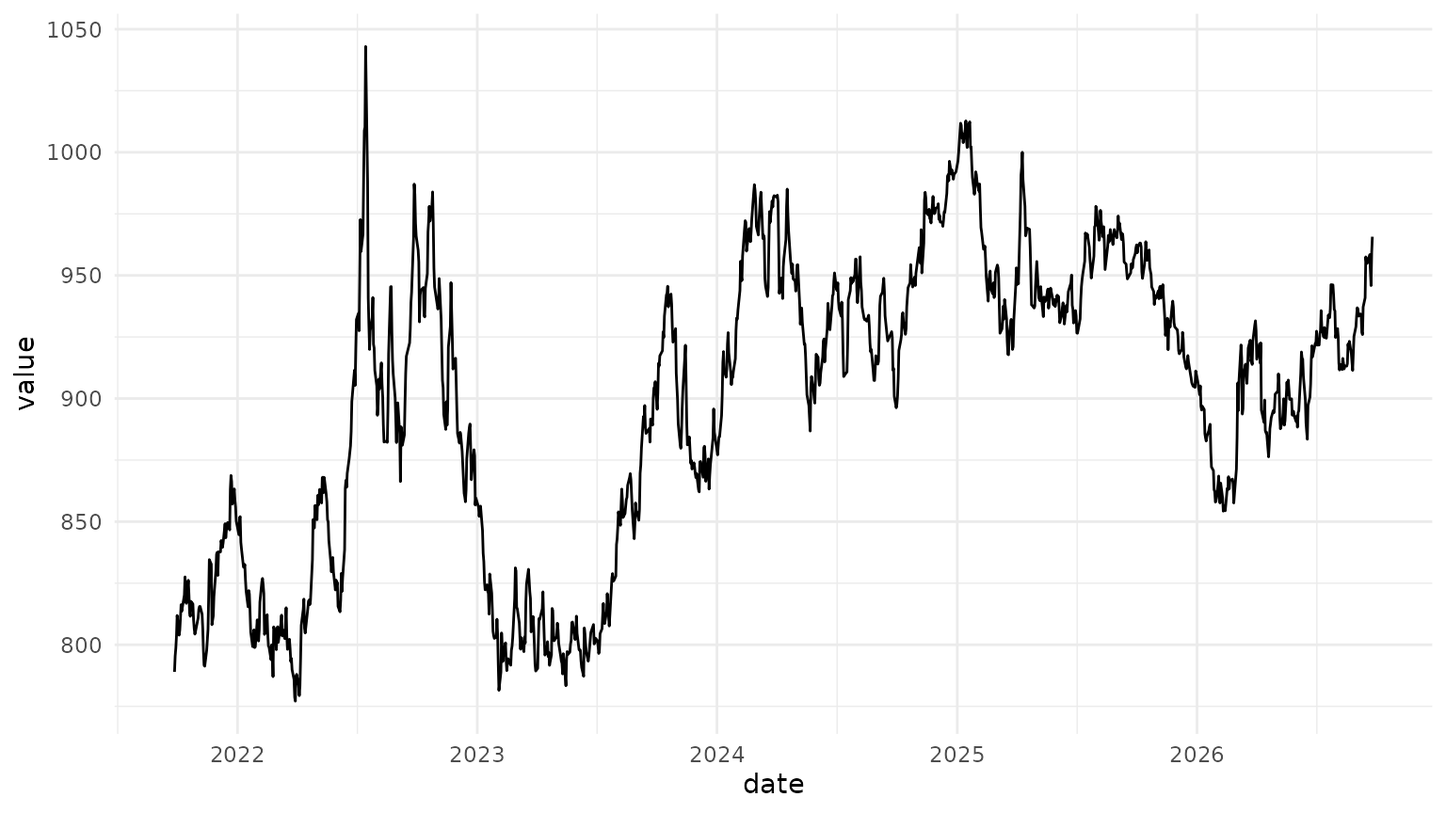
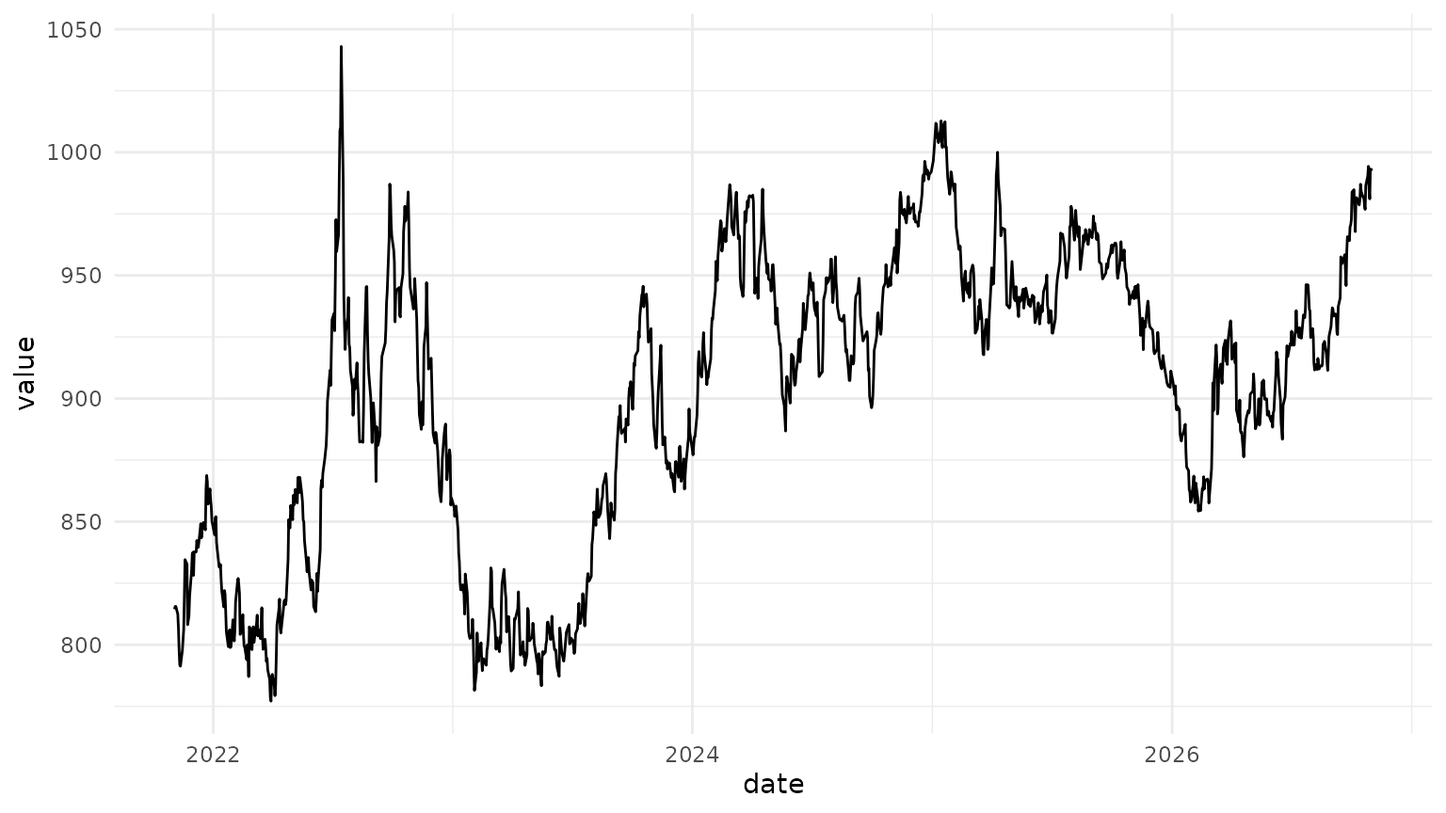
Built site for bcchr@0.1.0.9000: 2766e82

diff --git a/articles/ggplot.html b/articles/ggplot.html
@@ -1,8 +1,7 @@
 <!DOCTYPE html>
 <!-- Generated by pkgdown: do not edit by hand --><html lang="es">
 <head>
-<meta http-equiv="Content-Type" content="text/html; charset=UTF-8">
-<meta charset="utf-8">
+<meta charset="UTF-8">
 <meta http-equiv="X-UA-Compatible" content="IE=edge">
 <meta name="viewport" content="width=device-width, initial-scale=1, shrink-to-fit=no">
 <title>Visualización con ggplot2 • bcchr</title>
@@ -73,8 +72,9 @@ usar la serie directamente con <code>ggplot2</code>, sin clases
 especiales ni métodos de gráfico obligatorios.</p>
 <p>Los ejemplos de esta página consultan la API del Banco Central y
 requieren que <code>BCCH_TOKEN</code> esté configurado. Si no existe el
-token, el código se muestra pero no se ejecuta al construir la
-vignette.</p>
+token, el código se muestra pero no se ejecuta al construir la vignette.
+Si la API no está accesible por un problema de conexión, se informa el
+motivo y se omiten los gráficos dependientes.</p>
 <div class="section level2">
 <h2 id="descargar-una-serie">Descargar una serie<a class="anchor" aria-label="anchor" href="#descargar-una-serie"></a>
 </h2>
@@ -85,27 +85,38 @@ la serie es exacto; cuando no lo conozca puede encontrar candidatos con
 <code class="sourceCode R"><span><span class="kw"><a href="https://rdrr.io/r/base/library.html" class="external-link">library</a></span><span class="op">(</span><span class="va"><a href="https://jkunst.com/bcchr/">bcchr</a></span><span class="op">)</span></span>
 <span></span>
 <span><span class="co"># Requiere BCCH_TOKEN configurado.</span></span>
-<span><span class="va">dolar</span> <span class="op">&lt;-</span> <span class="fu"><a href="../reference/get_series.html">get_series</a></span><span class="op">(</span></span>
-<span>  <span class="st">"F073.TCO.PRE.Z.D"</span>,</span>
-<span>  from <span class="op">=</span> <span class="fu"><a href="https://rdrr.io/r/base/Sys.time.html" class="external-link">Sys.Date</a></span><span class="op">(</span><span class="op">)</span> <span class="op">-</span> <span class="fl">365</span> <span class="op">*</span> <span class="fl">5</span>,</span>
-<span>  to <span class="op">=</span> <span class="fu"><a href="https://rdrr.io/r/base/Sys.time.html" class="external-link">Sys.Date</a></span><span class="op">(</span><span class="op">)</span></span>
+<span><span class="va">dolar</span> <span class="op">&lt;-</span> <span class="kw"><a href="https://rdrr.io/r/base/conditions.html" class="external-link">tryCatch</a></span><span class="op">(</span></span>
+<span>  <span class="fu"><a href="../reference/get_series.html">get_series</a></span><span class="op">(</span></span>
+<span>    <span class="st">"F073.TCO.PRE.Z.D"</span>,</span>
+<span>    from <span class="op">=</span> <span class="fu"><a href="https://rdrr.io/r/base/Sys.time.html" class="external-link">Sys.Date</a></span><span class="op">(</span><span class="op">)</span> <span class="op">-</span> <span class="fl">365</span> <span class="op">*</span> <span class="fl">5</span>,</span>
+<span>    to <span class="op">=</span> <span class="fu"><a href="https://rdrr.io/r/base/Sys.time.html" class="external-link">Sys.Date</a></span><span class="op">(</span><span class="op">)</span></span>
+<span>  <span class="op">)</span>,</span>
+<span>  curl_error <span class="op">=</span> <span class="kw">function</span><span class="op">(</span><span class="va">error</span><span class="op">)</span> <span class="op">{</span></span>
+<span>    <span class="fu"><a href="https://rdrr.io/r/base/message.html" class="external-link">message</a></span><span class="op">(</span><span class="st">"No se pudo consultar la API del Banco Central: "</span>, <span class="fu"><a href="https://rdrr.io/r/base/conditions.html" class="external-link">conditionMessage</a></span><span class="op">(</span><span class="va">error</span><span class="op">)</span><span class="op">)</span></span>
+<span>    <span class="cn">NULL</span></span>
+<span>  <span class="op">}</span></span>
 <span><span class="op">)</span></span>
 <span></span>
-<span><span class="va">dolar</span> <span class="op">&lt;-</span> <span class="va">dolar</span><span class="op">[</span></span>
-<span>  <span class="va">dolar</span><span class="op">$</span><span class="va">status_code</span> <span class="op">==</span> <span class="st">"OK"</span> <span class="op">&amp;</span> <span class="op">!</span><span class="fu"><a href="https://rdrr.io/r/base/NA.html" class="external-link">is.na</a></span><span class="op">(</span><span class="va">dolar</span><span class="op">$</span><span class="va">value</span><span class="op">)</span>,</span>
-<span>  <span class="fu"><a href="https://rdrr.io/r/base/c.html" class="external-link">c</a></span><span class="op">(</span><span class="st">"date"</span>, <span class="st">"value"</span><span class="op">)</span></span>
-<span><span class="op">]</span></span>
+<span><span class="co"># Los siguientes ejemplos requieren una descarga disponible.</span></span>
+<span><span class="fu">knitr</span><span class="fu">::</span><span class="va"><a href="https://rdrr.io/pkg/knitr/man/opts_chunk.html" class="external-link">opts_chunk</a></span><span class="op">$</span><span class="fu">set</span><span class="op">(</span>eval <span class="op">=</span> <span class="op">!</span><span class="fu"><a href="https://rdrr.io/r/base/NULL.html" class="external-link">is.null</a></span><span class="op">(</span><span class="va">dolar</span><span class="op">)</span><span class="op">)</span></span>
 <span></span>
-<span><span class="fu"><a href="https://rdrr.io/r/utils/head.html" class="external-link">tail</a></span><span class="op">(</span><span class="va">dolar</span><span class="op">)</span></span>
+<span><span class="kw">if</span> <span class="op">(</span><span class="op">!</span><span class="fu"><a href="https://rdrr.io/r/base/NULL.html" class="external-link">is.null</a></span><span class="op">(</span><span class="va">dolar</span><span class="op">)</span><span class="op">)</span> <span class="op">{</span></span>
+<span>  <span class="va">dolar</span> <span class="op">&lt;-</span> <span class="va">dolar</span><span class="op">[</span></span>
+<span>    <span class="va">dolar</span><span class="op">$</span><span class="va">status_code</span> <span class="op">==</span> <span class="st">"OK"</span> <span class="op">&amp;</span> <span class="op">!</span><span class="fu"><a href="https://rdrr.io/r/base/NA.html" class="external-link">is.na</a></span><span class="op">(</span><span class="va">dolar</span><span class="op">$</span><span class="va">value</span><span class="op">)</span>,</span>
+<span>    <span class="fu"><a href="https://rdrr.io/r/base/c.html" class="external-link">c</a></span><span class="op">(</span><span class="st">"date"</span>, <span class="st">"value"</span><span class="op">)</span></span>
+<span>  <span class="op">]</span></span>
+<span></span>
+<span>  <span class="fu"><a href="https://rdrr.io/r/utils/head.html" class="external-link">tail</a></span><span class="op">(</span><span class="va">dolar</span><span class="op">)</span></span>
+<span><span class="op">}</span></span>
 <span><span class="co">#&gt; <span style="color: #949494;"># A tibble: 6 × 2</span></span></span>
 <span><span class="co">#&gt;   date       value</span></span>
 <span><span class="co">#&gt;   <span style="color: #949494; font-style: italic;">&lt;date&gt;</span>     <span style="color: #949494; font-style: italic;">&lt;dbl&gt;</span></span></span>
-<span><span class="co">#&gt; <span style="color: #BCBCBC;">1</span> 2026-09-17  955.</span></span>
-<span><span class="co">#&gt; <span style="color: #BCBCBC;">2</span> 2026-09-21  958.</span></span>
-<span><span class="co">#&gt; <span style="color: #BCBCBC;">3</span> 2026-09-22  952 </span></span>
-<span><span class="co">#&gt; <span style="color: #BCBCBC;">4</span> 2026-09-23  946.</span></span>
-<span><span class="co">#&gt; <span style="color: #BCBCBC;">5</span> 2026-09-24  959.</span></span>
-<span><span class="co">#&gt; <span style="color: #BCBCBC;">6</span> 2026-09-25  966.</span></span></code></pre></div>
+<span><span class="co">#&gt; <span style="color: #BCBCBC;">1</span> 2026-10-26  990.</span></span>
+<span><span class="co">#&gt; <span style="color: #BCBCBC;">2</span> 2026-10-27  994.</span></span>
+<span><span class="co">#&gt; <span style="color: #BCBCBC;">3</span> 2026-10-28  985.</span></span>
+<span><span class="co">#&gt; <span style="color: #BCBCBC;">4</span> 2026-10-29  981.</span></span>
+<span><span class="co">#&gt; <span style="color: #BCBCBC;">5</span> 2026-10-30  993.</span></span>
+<span><span class="co">#&gt; <span style="color: #BCBCBC;">6</span> 2026-11-02  993.</span></span></code></pre></div>
 </div>
 <div class="section level2">
 <h2 id="la-opción-rápida">La opción rápida<a class="anchor" aria-label="anchor" href="#la-opci%C3%B3n-r%C3%A1pida"></a>

diff --git a/reference/bcch_SearchSeries.html b/reference/bcch_SearchSeries.html
@@ -1,5 +1,5 @@
 <!DOCTYPE html>
-<!-- Generated by pkgdown: do not edit by hand --><html lang="es"><head><meta http-equiv="Content-Type" content="text/html; charset=UTF-8"><meta charset="utf-8"><meta http-equiv="X-UA-Compatible" content="IE=edge"><meta name="viewport" content="width=device-width, initial-scale=1, shrink-to-fit=no"><title>Obtener las series disponibles por frecuencia — bcch_SearchSeries • bcchr</title><script src="../deps/jquery-3.6.0/jquery-3.6.0.min.js"></script><meta name="viewport" content="width=device-width, initial-scale=1, shrink-to-fit=no"><link href="../deps/bootstrap-5.3.8/bootstrap.min.css" rel="stylesheet"><script src="../deps/bootstrap-5.3.8/bootstrap.bundle.min.js"></script><link href="../deps/IBM_Plex_Sans-0.4.10/font.css" rel="stylesheet"><link href="../deps/Fira_Mono-0.4.10/font.css" rel="stylesheet"><link href="../deps/font-awesome-6.5.2/css/all.min.css" rel="stylesheet"><link href="../deps/font-awesome-6.5.2/css/v4-shims.min.css" rel="stylesheet"><script src="../deps/headroom-0.11.0/headroom.min.js"></script><script src="../deps/headroom-0.11.0/jQuery.headroom.min.js"></script><script src="../deps/bootstrap-toc-1.0.1/bootstrap-toc.min.js"></script><script src="../deps/clipboard.js-2.0.11/clipboard.min.js"></script><script src="../deps/search-1.0.0/autocomplete.jquery.min.js"></script><script src="../deps/search-1.0.0/fuse.min.js"></script><script src="../deps/search-1.0.0/mark.min.js"></script><!-- pkgdown --><script src="../pkgdown.js"></script><meta property="og:title" content="Obtener las series disponibles por frecuencia — bcch_SearchSeries"><meta name="description" content="Acceso directo a la operación SearchSeries del API del Banco Central.
+<!-- Generated by pkgdown: do not edit by hand --><html lang="es"><head><meta charset="UTF-8"><meta http-equiv="X-UA-Compatible" content="IE=edge"><meta name="viewport" content="width=device-width, initial-scale=1, shrink-to-fit=no"><title>Obtener las series disponibles por frecuencia — bcch_SearchSeries • bcchr</title><script src="../deps/jquery-3.6.0/jquery-3.6.0.min.js"></script><meta name="viewport" content="width=device-width, initial-scale=1, shrink-to-fit=no"><link href="../deps/bootstrap-5.3.8/bootstrap.min.css" rel="stylesheet"><script src="../deps/bootstrap-5.3.8/bootstrap.bundle.min.js"></script><link href="../deps/IBM_Plex_Sans-0.4.10/font.css" rel="stylesheet"><link href="../deps/Fira_Mono-0.4.10/font.css" rel="stylesheet"><link href="../deps/font-awesome-6.5.2/css/all.min.css" rel="stylesheet"><link href="../deps/font-awesome-6.5.2/css/v4-shims.min.css" rel="stylesheet"><script src="../deps/headroom-0.11.0/headroom.min.js"></script><script src="../deps/headroom-0.11.0/jQuery.headroom.min.js"></script><script src="../deps/bootstrap-toc-1.0.1/bootstrap-toc.min.js"></script><script src="../deps/clipboard.js-2.0.11/clipboard.min.js"></script><script src="../deps/search-1.0.0/autocomplete.jquery.min.js"></script><script src="../deps/search-1.0.0/fuse.min.js"></script><script src="../deps/search-1.0.0/mark.min.js"></script><!-- pkgdown --><script src="../pkgdown.js"></script><meta property="og:title" content="Obtener las series disponibles por frecuencia — bcch_SearchSeries"><meta name="description" content="Acceso directo a la operación SearchSeries del API del Banco Central.
 Para la interfaz moderna use metadata() o resolve_series()."><meta property="og:description" content="Acceso directo a la operación SearchSeries del API del Banco Central.
 Para la interfaz moderna use metadata() o resolve_series()."><!-- Google tag (gtag.js) --><script async src="https://www.googletagmanager.com/gtag/js?id=G-ECZ9XLT78C"></script><script>
   window.dataLayer = window.dataLayer || [];

diff --git a/reference/bcch_GetSeries.html b/reference/bcch_GetSeries.html
@@ -1,5 +1,5 @@
 <!DOCTYPE html>
-<!-- Generated by pkgdown: do not edit by hand --><html lang="es"><head><meta http-equiv="Content-Type" content="text/html; charset=UTF-8"><meta charset="utf-8"><meta http-equiv="X-UA-Compatible" content="IE=edge"><meta name="viewport" content="width=device-width, initial-scale=1, shrink-to-fit=no"><title>Obtener los datos de una serie — bcch_GetSeries • bcchr</title><script src="../deps/jquery-3.6.0/jquery-3.6.0.min.js"></script><meta name="viewport" content="width=device-width, initial-scale=1, shrink-to-fit=no"><link href="../deps/bootstrap-5.3.8/bootstrap.min.css" rel="stylesheet"><script src="../deps/bootstrap-5.3.8/bootstrap.bundle.min.js"></script><link href="../deps/IBM_Plex_Sans-0.4.10/font.css" rel="stylesheet"><link href="../deps/Fira_Mono-0.4.10/font.css" rel="stylesheet"><link href="../deps/font-awesome-6.5.2/css/all.min.css" rel="stylesheet"><link href="../deps/font-awesome-6.5.2/css/v4-shims.min.css" rel="stylesheet"><script src="../deps/headroom-0.11.0/headroom.min.js"></script><script src="../deps/headroom-0.11.0/jQuery.headroom.min.js"></script><script src="../deps/bootstrap-toc-1.0.1/bootstrap-toc.min.js"></script><script src="../deps/clipboard.js-2.0.11/clipboard.min.js"></script><script src="../deps/search-1.0.0/autocomplete.jquery.min.js"></script><script src="../deps/search-1.0.0/fuse.min.js"></script><script src="../deps/search-1.0.0/mark.min.js"></script><!-- pkgdown --><script src="../pkgdown.js"></script><meta property="og:title" content="Obtener los datos de una serie — bcch_GetSeries"><meta name="description" content="Acceso directo a la operación GetSeries del API del Banco Central.
+<!-- Generated by pkgdown: do not edit by hand --><html lang="es"><head><meta charset="UTF-8"><meta http-equiv="X-UA-Compatible" content="IE=edge"><meta name="viewport" content="width=device-width, initial-scale=1, shrink-to-fit=no"><title>Obtener los datos de una serie — bcch_GetSeries • bcchr</title><script src="../deps/jquery-3.6.0/jquery-3.6.0.min.js"></script><meta name="viewport" content="width=device-width, initial-scale=1, shrink-to-fit=no"><link href="../deps/bootstrap-5.3.8/bootstrap.min.css" rel="stylesheet"><script src="../deps/bootstrap-5.3.8/bootstrap.bundle.min.js"></script><link href="../deps/IBM_Plex_Sans-0.4.10/font.css" rel="stylesheet"><link href="../deps/Fira_Mono-0.4.10/font.css" rel="stylesheet"><link href="../deps/font-awesome-6.5.2/css/all.min.css" rel="stylesheet"><link href="../deps/font-awesome-6.5.2/css/v4-shims.min.css" rel="stylesheet"><script src="../deps/headroom-0.11.0/headroom.min.js"></script><script src="../deps/headroom-0.11.0/jQuery.headroom.min.js"></script><script src="../deps/bootstrap-toc-1.0.1/bootstrap-toc.min.js"></script><script src="../deps/clipboard.js-2.0.11/clipboard.min.js"></script><script src="../deps/search-1.0.0/autocomplete.jquery.min.js"></script><script src="../deps/search-1.0.0/fuse.min.js"></script><script src="../deps/search-1.0.0/mark.min.js"></script><!-- pkgdown --><script src="../pkgdown.js"></script><meta property="og:title" content="Obtener los datos de una serie — bcch_GetSeries"><meta name="description" content="Acceso directo a la operación GetSeries del API del Banco Central.
 Para la interfaz moderna use get_series()."><meta property="og:description" content="Acceso directo a la operación GetSeries del API del Banco Central.
 Para la interfaz moderna use get_series()."><!-- Google tag (gtag.js) --><script async src="https://www.googletagmanager.com/gtag/js?id=G-ECZ9XLT78C"></script><script>
   window.dataLayer = window.dataLayer || [];

diff --git a/reference/get_series.html b/reference/get_series.html
@@ -1,5 +1,5 @@
 <!DOCTYPE html>
-<!-- Generated by pkgdown: do not edit by hand --><html lang="es"><head><meta http-equiv="Content-Type" content="text/html; charset=UTF-8"><meta charset="utf-8"><meta http-equiv="X-UA-Compatible" content="IE=edge"><meta name="viewport" content="width=device-width, initial-scale=1, shrink-to-fit=no"><title>Obtener observaciones de series del Banco Central — get_series • bcchr</title><script src="../deps/jquery-3.6.0/jquery-3.6.0.min.js"></script><meta name="viewport" content="width=device-width, initial-scale=1, shrink-to-fit=no"><link href="../deps/bootstrap-5.3.8/bootstrap.min.css" rel="stylesheet"><script src="../deps/bootstrap-5.3.8/bootstrap.bundle.min.js"></script><link href="../deps/IBM_Plex_Sans-0.4.10/font.css" rel="stylesheet"><link href="../deps/Fira_Mono-0.4.10/font.css" rel="stylesheet"><link href="../deps/font-awesome-6.5.2/css/all.min.css" rel="stylesheet"><link href="../deps/font-awesome-6.5.2/css/v4-shims.min.css" rel="stylesheet"><script src="../deps/headroom-0.11.0/headroom.min.js"></script><script src="../deps/headroom-0.11.0/jQuery.headroom.min.js"></script><script src="../deps/bootstrap-toc-1.0.1/bootstrap-toc.min.js"></script><script src="../deps/clipboard.js-2.0.11/clipboard.min.js"></script><script src="../deps/search-1.0.0/autocomplete.jquery.min.js"></script><script src="../deps/search-1.0.0/fuse.min.js"></script><script src="../deps/search-1.0.0/mark.min.js"></script><!-- pkgdown --><script src="../pkgdown.js"></script><meta property="og:title" content="Obtener observaciones de series del Banco Central — get_series"><meta name="description" content="Obtiene las observaciones de una o varias series identificadas por sus
+<!-- Generated by pkgdown: do not edit by hand --><html lang="es"><head><meta charset="UTF-8"><meta http-equiv="X-UA-Compatible" content="IE=edge"><meta name="viewport" content="width=device-width, initial-scale=1, shrink-to-fit=no"><title>Obtener observaciones de series del Banco Central — get_series • bcchr</title><script src="../deps/jquery-3.6.0/jquery-3.6.0.min.js"></script><meta name="viewport" content="width=device-width, initial-scale=1, shrink-to-fit=no"><link href="../deps/bootstrap-5.3.8/bootstrap.min.css" rel="stylesheet"><script src="../deps/bootstrap-5.3.8/bootstrap.bundle.min.js"></script><link href="../deps/IBM_Plex_Sans-0.4.10/font.css" rel="stylesheet"><link href="../deps/Fira_Mono-0.4.10/font.css" rel="stylesheet"><link href="../deps/font-awesome-6.5.2/css/all.min.css" rel="stylesheet"><link href="../deps/font-awesome-6.5.2/css/v4-shims.min.css" rel="stylesheet"><script src="../deps/headroom-0.11.0/headroom.min.js"></script><script src="../deps/headroom-0.11.0/jQuery.headroom.min.js"></script><script src="../deps/bootstrap-toc-1.0.1/bootstrap-toc.min.js"></script><script src="../deps/clipboard.js-2.0.11/clipboard.min.js"></script><script src="../deps/search-1.0.0/autocomplete.jquery.min.js"></script><script src="../deps/search-1.0.0/fuse.min.js"></script><script src="../deps/search-1.0.0/mark.min.js"></script><!-- pkgdown --><script src="../pkgdown.js"></script><meta property="og:title" content="Obtener observaciones de series del Banco Central — get_series"><meta name="description" content="Obtiene las observaciones de una o varias series identificadas por sus
 codigos exactos y, opcionalmente, un rango de fechas comun. Esta funcion solo
 obtiene datos para los codigos entregados; nunca interpreta ni resuelve
 nombres de series."><meta property="og:description" content="Obtiene las observaciones de una o varias series identificadas por sus

diff --git a/reference/resolve_series.html b/reference/resolve_series.html
@@ -1,5 +1,5 @@
 <!DOCTYPE html>
-<!-- Generated by pkgdown: do not edit by hand --><html lang="es"><head><meta http-equiv="Content-Type" content="text/html; charset=UTF-8"><meta charset="utf-8"><meta http-equiv="X-UA-Compatible" content="IE=edge"><meta name="viewport" content="width=device-width, initial-scale=1, shrink-to-fit=no"><title>Resolver una descripcion a series del Banco Central — resolve_series • bcchr</title><script src="../deps/jquery-3.6.0/jquery-3.6.0.min.js"></script><meta name="viewport" content="width=device-width, initial-scale=1, shrink-to-fit=no"><link href="../deps/bootstrap-5.3.8/bootstrap.min.css" rel="stylesheet"><script src="../deps/bootstrap-5.3.8/bootstrap.bundle.min.js"></script><link href="../deps/IBM_Plex_Sans-0.4.10/font.css" rel="stylesheet"><link href="../deps/Fira_Mono-0.4.10/font.css" rel="stylesheet"><link href="../deps/font-awesome-6.5.2/css/all.min.css" rel="stylesheet"><link href="../deps/font-awesome-6.5.2/css/v4-shims.min.css" rel="stylesheet"><script src="../deps/headroom-0.11.0/headroom.min.js"></script><script src="../deps/headroom-0.11.0/jQuery.headroom.min.js"></script><script src="../deps/bootstrap-toc-1.0.1/bootstrap-toc.min.js"></script><script src="../deps/clipboard.js-2.0.11/clipboard.min.js"></script><script src="../deps/search-1.0.0/autocomplete.jquery.min.js"></script><script src="../deps/search-1.0.0/fuse.min.js"></script><script src="../deps/search-1.0.0/mark.min.js"></script><!-- pkgdown --><script src="../pkgdown.js"></script><meta property="og:title" content="Resolver una descripcion a series del Banco Central — resolve_series"><meta name="description" content="Busca en el catalogo del Banco Central usando uno o varios terminos legibles
+<!-- Generated by pkgdown: do not edit by hand --><html lang="es"><head><meta charset="UTF-8"><meta http-equiv="X-UA-Compatible" content="IE=edge"><meta name="viewport" content="width=device-width, initial-scale=1, shrink-to-fit=no"><title>Resolver una descripcion a series del Banco Central — resolve_series • bcchr</title><script src="../deps/jquery-3.6.0/jquery-3.6.0.min.js"></script><meta name="viewport" content="width=device-width, initial-scale=1, shrink-to-fit=no"><link href="../deps/bootstrap-5.3.8/bootstrap.min.css" rel="stylesheet"><script src="../deps/bootstrap-5.3.8/bootstrap.bundle.min.js"></script><link href="../deps/IBM_Plex_Sans-0.4.10/font.css" rel="stylesheet"><link href="../deps/Fira_Mono-0.4.10/font.css" rel="stylesheet"><link href="../deps/font-awesome-6.5.2/css/all.min.css" rel="stylesheet"><link href="../deps/font-awesome-6.5.2/css/v4-shims.min.css" rel="stylesheet"><script src="../deps/headroom-0.11.0/headroom.min.js"></script><script src="../deps/headroom-0.11.0/jQuery.headroom.min.js"></script><script src="../deps/bootstrap-toc-1.0.1/bootstrap-toc.min.js"></script><script src="../deps/clipboard.js-2.0.11/clipboard.min.js"></script><script src="../deps/search-1.0.0/autocomplete.jquery.min.js"></script><script src="../deps/search-1.0.0/fuse.min.js"></script><script src="../deps/search-1.0.0/mark.min.js"></script><!-- pkgdown --><script src="../pkgdown.js"></script><meta property="og:title" content="Resolver una descripcion a series del Banco Central — resolve_series"><meta name="description" content="Busca en el catalogo del Banco Central usando uno o varios terminos legibles
 por una persona y devuelve las series candidatas. Las busquedas ignoran
 mayusculas y acentos. Cuando una consulta contiene varias palabras, todas
 deben aparecer en alguno de los campos series_id, spanish_title o

diff --git a/reference/plot_series.html b/reference/plot_series.html
@@ -1,5 +1,5 @@
 <!DOCTYPE html>
-<!-- Generated by pkgdown: do not edit by hand --><html lang="es"><head><meta http-equiv="Content-Type" content="text/html; charset=UTF-8"><meta charset="utf-8"><meta http-equiv="X-UA-Compatible" content="IE=edge"><meta name="viewport" content="width=device-width, initial-scale=1, shrink-to-fit=no"><title>Graficar series del Banco Central — plot_series • bcchr</title><script src="../deps/jquery-3.6.0/jquery-3.6.0.min.js"></script><meta name="viewport" content="width=device-width, initial-scale=1, shrink-to-fit=no"><link href="../deps/bootstrap-5.3.8/bootstrap.min.css" rel="stylesheet"><script src="../deps/bootstrap-5.3.8/bootstrap.bundle.min.js"></script><link href="../deps/IBM_Plex_Sans-0.4.10/font.css" rel="stylesheet"><link href="../deps/Fira_Mono-0.4.10/font.css" rel="stylesheet"><link href="../deps/font-awesome-6.5.2/css/all.min.css" rel="stylesheet"><link href="../deps/font-awesome-6.5.2/css/v4-shims.min.css" rel="stylesheet"><script src="../deps/headroom-0.11.0/headroom.min.js"></script><script src="../deps/headroom-0.11.0/jQuery.headroom.min.js"></script><script src="../deps/bootstrap-toc-1.0.1/bootstrap-toc.min.js"></script><script src="../deps/clipboard.js-2.0.11/clipboard.min.js"></script><script src="../deps/search-1.0.0/autocomplete.jquery.min.js"></script><script src="../deps/search-1.0.0/fuse.min.js"></script><script src="../deps/search-1.0.0/mark.min.js"></script><!-- pkgdown --><script src="../pkgdown.js"></script><meta property="og:title" content="Graficar series del Banco Central — plot_series"><meta name="description" content="Grafica un data frame devuelto por get_series(). Cuando contiene varias
+<!-- Generated by pkgdown: do not edit by hand --><html lang="es"><head><meta charset="UTF-8"><meta http-equiv="X-UA-Compatible" content="IE=edge"><meta name="viewport" content="width=device-width, initial-scale=1, shrink-to-fit=no"><title>Graficar series del Banco Central — plot_series • bcchr</title><script src="../deps/jquery-3.6.0/jquery-3.6.0.min.js"></script><meta name="viewport" content="width=device-width, initial-scale=1, shrink-to-fit=no"><link href="../deps/bootstrap-5.3.8/bootstrap.min.css" rel="stylesheet"><script src="../deps/bootstrap-5.3.8/bootstrap.bundle.min.js"></script><link href="../deps/IBM_Plex_Sans-0.4.10/font.css" rel="stylesheet"><link href="../deps/Fira_Mono-0.4.10/font.css" rel="stylesheet"><link href="../deps/font-awesome-6.5.2/css/all.min.css" rel="stylesheet"><link href="../deps/font-awesome-6.5.2/css/v4-shims.min.css" rel="stylesheet"><script src="../deps/headroom-0.11.0/headroom.min.js"></script><script src="../deps/headroom-0.11.0/jQuery.headroom.min.js"></script><script src="../deps/bootstrap-toc-1.0.1/bootstrap-toc.min.js"></script><script src="../deps/clipboard.js-2.0.11/clipboard.min.js"></script><script src="../deps/search-1.0.0/autocomplete.jquery.min.js"></script><script src="../deps/search-1.0.0/fuse.min.js"></script><script src="../deps/search-1.0.0/mark.min.js"></script><!-- pkgdown --><script src="../pkgdown.js"></script><meta property="og:title" content="Graficar series del Banco Central — plot_series"><meta name="description" content="Grafica un data frame devuelto por get_series(). Cuando contiene varias
 series, usa series_id para separarlas. Es una ayuda pequeña de
 visualizacion: no agrega clases ni modifica los datos."><meta property="og:description" content="Grafica un data frame devuelto por get_series(). Cuando contiene varias
 series, usa series_id para separarlas. Es una ayuda pequeña de

diff --git a/reference/describe_series.html b/reference/describe_series.html
@@ -1,5 +1,5 @@
 <!DOCTYPE html>
-<!-- Generated by pkgdown: do not edit by hand --><html lang="es"><head><meta http-equiv="Content-Type" content="text/html; charset=UTF-8"><meta charset="utf-8"><meta http-equiv="X-UA-Compatible" content="IE=edge"><meta name="viewport" content="width=device-width, initial-scale=1, shrink-to-fit=no"><title>Describir una serie del Banco Central — describe_series • bcchr</title><script src="../deps/jquery-3.6.0/jquery-3.6.0.min.js"></script><meta name="viewport" content="width=device-width, initial-scale=1, shrink-to-fit=no"><link href="../deps/bootstrap-5.3.8/bootstrap.min.css" rel="stylesheet"><script src="../deps/bootstrap-5.3.8/bootstrap.bundle.min.js"></script><link href="../deps/IBM_Plex_Sans-0.4.10/font.css" rel="stylesheet"><link href="../deps/Fira_Mono-0.4.10/font.css" rel="stylesheet"><link href="../deps/font-awesome-6.5.2/css/all.min.css" rel="stylesheet"><link href="../deps/font-awesome-6.5.2/css/v4-shims.min.css" rel="stylesheet"><script src="../deps/headroom-0.11.0/headroom.min.js"></script><script src="../deps/headroom-0.11.0/jQuery.headroom.min.js"></script><script src="../deps/bootstrap-toc-1.0.1/bootstrap-toc.min.js"></script><script src="../deps/clipboard.js-2.0.11/clipboard.min.js"></script><script src="../deps/search-1.0.0/autocomplete.jquery.min.js"></script><script src="../deps/search-1.0.0/fuse.min.js"></script><script src="../deps/search-1.0.0/mark.min.js"></script><!-- pkgdown --><script src="../pkgdown.js"></script><meta property="og:title" content="Describir una serie del Banco Central — describe_series"><meta name="description" content="Devuelve la metadata de una o varias series identificadas por sus codigos
+<!-- Generated by pkgdown: do not edit by hand --><html lang="es"><head><meta charset="UTF-8"><meta http-equiv="X-UA-Compatible" content="IE=edge"><meta name="viewport" content="width=device-width, initial-scale=1, shrink-to-fit=no"><title>Describir una serie del Banco Central — describe_series • bcchr</title><script src="../deps/jquery-3.6.0/jquery-3.6.0.min.js"></script><meta name="viewport" content="width=device-width, initial-scale=1, shrink-to-fit=no"><link href="../deps/bootstrap-5.3.8/bootstrap.min.css" rel="stylesheet"><script src="../deps/bootstrap-5.3.8/bootstrap.bundle.min.js"></script><link href="../deps/IBM_Plex_Sans-0.4.10/font.css" rel="stylesheet"><link href="../deps/Fira_Mono-0.4.10/font.css" rel="stylesheet"><link href="../deps/font-awesome-6.5.2/css/all.min.css" rel="stylesheet"><link href="../deps/font-awesome-6.5.2/css/v4-shims.min.css" rel="stylesheet"><script src="../deps/headroom-0.11.0/headroom.min.js"></script><script src="../deps/headroom-0.11.0/jQuery.headroom.min.js"></script><script src="../deps/bootstrap-toc-1.0.1/bootstrap-toc.min.js"></script><script src="../deps/clipboard.js-2.0.11/clipboard.min.js"></script><script src="../deps/search-1.0.0/autocomplete.jquery.min.js"></script><script src="../deps/search-1.0.0/fuse.min.js"></script><script src="../deps/search-1.0.0/mark.min.js"></script><!-- pkgdown --><script src="../pkgdown.js"></script><meta property="og:title" content="Describir una serie del Banco Central — describe_series"><meta name="description" content="Devuelve la metadata de una o varias series identificadas por sus codigos
 exactos. Esta funcion no interpreta nombres en lenguaje natural. Use
 resolve_series() primero cuando no conozca los
 codigos."><meta property="og:description" content="Devuelve la metadata de una o varias series identificadas por sus codigos

diff --git a/reference/metadata.html b/reference/metadata.html
@@ -1,5 +1,5 @@
 <!DOCTYPE html>
-<!-- Generated by pkgdown: do not edit by hand --><html lang="es"><head><meta http-equiv="Content-Type" content="text/html; charset=UTF-8"><meta charset="utf-8"><meta http-equiv="X-UA-Compatible" content="IE=edge"><meta name="viewport" content="width=device-width, initial-scale=1, shrink-to-fit=no"><title>Metadata de las series — metadata • bcchr</title><script src="../deps/jquery-3.6.0/jquery-3.6.0.min.js"></script><meta name="viewport" content="width=device-width, initial-scale=1, shrink-to-fit=no"><link href="../deps/bootstrap-5.3.8/bootstrap.min.css" rel="stylesheet"><script src="../deps/bootstrap-5.3.8/bootstrap.bundle.min.js"></script><link href="../deps/IBM_Plex_Sans-0.4.10/font.css" rel="stylesheet"><link href="../deps/Fira_Mono-0.4.10/font.css" rel="stylesheet"><link href="../deps/font-awesome-6.5.2/css/all.min.css" rel="stylesheet"><link href="../deps/font-awesome-6.5.2/css/v4-shims.min.css" rel="stylesheet"><script src="../deps/headroom-0.11.0/headroom.min.js"></script><script src="../deps/headroom-0.11.0/jQuery.headroom.min.js"></script><script src="../deps/bootstrap-toc-1.0.1/bootstrap-toc.min.js"></script><script src="../deps/clipboard.js-2.0.11/clipboard.min.js"></script><script src="../deps/search-1.0.0/autocomplete.jquery.min.js"></script><script src="../deps/search-1.0.0/fuse.min.js"></script><script src="../deps/search-1.0.0/mark.min.js"></script><!-- pkgdown --><script src="../pkgdown.js"></script><meta property="og:title" content="Metadata de las series — metadata"><meta name="description" content="Obtiene el catalogo actual de series disponibles del Banco Central de Chile.
+<!-- Generated by pkgdown: do not edit by hand --><html lang="es"><head><meta charset="UTF-8"><meta http-equiv="X-UA-Compatible" content="IE=edge"><meta name="viewport" content="width=device-width, initial-scale=1, shrink-to-fit=no"><title>Metadata de las series — metadata • bcchr</title><script src="../deps/jquery-3.6.0/jquery-3.6.0.min.js"></script><meta name="viewport" content="width=device-width, initial-scale=1, shrink-to-fit=no"><link href="../deps/bootstrap-5.3.8/bootstrap.min.css" rel="stylesheet"><script src="../deps/bootstrap-5.3.8/bootstrap.bundle.min.js"></script><link href="../deps/IBM_Plex_Sans-0.4.10/font.css" rel="stylesheet"><link href="../deps/Fira_Mono-0.4.10/font.css" rel="stylesheet"><link href="../deps/font-awesome-6.5.2/css/all.min.css" rel="stylesheet"><link href="../deps/font-awesome-6.5.2/css/v4-shims.min.css" rel="stylesheet"><script src="../deps/headroom-0.11.0/headroom.min.js"></script><script src="../deps/headroom-0.11.0/jQuery.headroom.min.js"></script><script src="../deps/bootstrap-toc-1.0.1/bootstrap-toc.min.js"></script><script src="../deps/clipboard.js-2.0.11/clipboard.min.js"></script><script src="../deps/search-1.0.0/autocomplete.jquery.min.js"></script><script src="../deps/search-1.0.0/fuse.min.js"></script><script src="../deps/search-1.0.0/mark.min.js"></script><!-- pkgdown --><script src="../pkgdown.js"></script><meta property="og:title" content="Metadata de las series — metadata"><meta name="description" content="Obtiene el catalogo actual de series disponibles del Banco Central de Chile.
 Use esta funcion para conocer que series existen, su frecuencia y su
 cobertura temporal."><meta property="og:description" content="Obtiene el catalogo actual de series disponibles del Banco Central de Chile.
 Use esta funcion para conocer que series existen, su frecuencia y su

diff --git a/news/index.html b/news/index.html
@@ -1,5 +1,5 @@
 <!DOCTYPE html>
-<!-- Generated by pkgdown: do not edit by hand --><html lang="es"><head><meta http-equiv="Content-Type" content="text/html; charset=UTF-8"><meta charset="utf-8"><meta http-equiv="X-UA-Compatible" content="IE=edge"><meta name="viewport" content="width=device-width, initial-scale=1, shrink-to-fit=no"><title>Registro de cambios • bcchr</title><script src="../deps/jquery-3.6.0/jquery-3.6.0.min.js"></script><meta name="viewport" content="width=device-width, initial-scale=1, shrink-to-fit=no"><link href="../deps/bootstrap-5.3.8/bootstrap.min.css" rel="stylesheet"><script src="../deps/bootstrap-5.3.8/bootstrap.bundle.min.js"></script><link href="../deps/IBM_Plex_Sans-0.4.10/font.css" rel="stylesheet"><link href="../deps/Fira_Mono-0.4.10/font.css" rel="stylesheet"><link href="../deps/font-awesome-6.5.2/css/all.min.css" rel="stylesheet"><link href="../deps/font-awesome-6.5.2/css/v4-shims.min.css" rel="stylesheet"><script src="../deps/headroom-0.11.0/headroom.min.js"></script><script src="../deps/headroom-0.11.0/jQuery.headroom.min.js"></script><script src="../deps/bootstrap-toc-1.0.1/bootstrap-toc.min.js"></script><script src="../deps/clipboard.js-2.0.11/clipboard.min.js"></script><script src="../deps/search-1.0.0/autocomplete.jquery.min.js"></script><script src="../deps/search-1.0.0/fuse.min.js"></script><script src="../deps/search-1.0.0/mark.min.js"></script><!-- pkgdown --><script src="../pkgdown.js"></script><meta property="og:title" content="Registro de cambios"><!-- Google tag (gtag.js) --><script async src="https://www.googletagmanager.com/gtag/js?id=G-ECZ9XLT78C"></script><script>
+<!-- Generated by pkgdown: do not edit by hand --><html lang="es"><head><meta charset="UTF-8"><meta http-equiv="X-UA-Compatible" content="IE=edge"><meta name="viewport" content="width=device-width, initial-scale=1, shrink-to-fit=no"><title>Registro de cambios • bcchr</title><script src="../deps/jquery-3.6.0/jquery-3.6.0.min.js"></script><meta name="viewport" content="width=device-width, initial-scale=1, shrink-to-fit=no"><link href="../deps/bootstrap-5.3.8/bootstrap.min.css" rel="stylesheet"><script src="../deps/bootstrap-5.3.8/bootstrap.bundle.min.js"></script><link href="../deps/IBM_Plex_Sans-0.4.10/font.css" rel="stylesheet"><link href="../deps/Fira_Mono-0.4.10/font.css" rel="stylesheet"><link href="../deps/font-awesome-6.5.2/css/all.min.css" rel="stylesheet"><link href="../deps/font-awesome-6.5.2/css/v4-shims.min.css" rel="stylesheet"><script src="../deps/headroom-0.11.0/headroom.min.js"></script><script src="../deps/headroom-0.11.0/jQuery.headroom.min.js"></script><script src="../deps/bootstrap-toc-1.0.1/bootstrap-toc.min.js"></script><script src="../deps/clipboard.js-2.0.11/clipboard.min.js"></script><script src="../deps/search-1.0.0/autocomplete.jquery.min.js"></script><script src="../deps/search-1.0.0/fuse.min.js"></script><script src="../deps/search-1.0.0/mark.min.js"></script><!-- pkgdown --><script src="../pkgdown.js"></script><meta property="og:title" content="Registro de cambios"><!-- Google tag (gtag.js) --><script async src="https://www.googletagmanager.com/gtag/js?id=G-ECZ9XLT78C"></script><script>
   window.dataLayer = window.dataLayer || [];
   function gtag(){dataLayer.push(arguments);}
   gtag('js', new Date());

diff --git a/reference/index.html b/reference/index.html
@@ -1,5 +1,5 @@
 <!DOCTYPE html>
-<!-- Generated by pkgdown: do not edit by hand --><html lang="es"><head><meta http-equiv="Content-Type" content="text/html; charset=UTF-8"><meta charset="utf-8"><meta http-equiv="X-UA-Compatible" content="IE=edge"><meta name="viewport" content="width=device-width, initial-scale=1, shrink-to-fit=no"><title>Índice del paquete • bcchr</title><script src="../deps/jquery-3.6.0/jquery-3.6.0.min.js"></script><meta name="viewport" content="width=device-width, initial-scale=1, shrink-to-fit=no"><link href="../deps/bootstrap-5.3.8/bootstrap.min.css" rel="stylesheet"><script src="../deps/bootstrap-5.3.8/bootstrap.bundle.min.js"></script><link href="../deps/IBM_Plex_Sans-0.4.10/font.css" rel="stylesheet"><link href="../deps/Fira_Mono-0.4.10/font.css" rel="stylesheet"><link href="../deps/font-awesome-6.5.2/css/all.min.css" rel="stylesheet"><link href="../deps/font-awesome-6.5.2/css/v4-shims.min.css" rel="stylesheet"><script src="../deps/headroom-0.11.0/headroom.min.js"></script><script src="../deps/headroom-0.11.0/jQuery.headroom.min.js"></script><script src="../deps/bootstrap-toc-1.0.1/bootstrap-toc.min.js"></script><script src="../deps/clipboard.js-2.0.11/clipboard.min.js"></script><script src="../deps/search-1.0.0/autocomplete.jquery.min.js"></script><script src="../deps/search-1.0.0/fuse.min.js"></script><script src="../deps/search-1.0.0/mark.min.js"></script><!-- pkgdown --><script src="../pkgdown.js"></script><meta property="og:title" content="Índice del paquete"><!-- Google tag (gtag.js) --><script async src="https://www.googletagmanager.com/gtag/js?id=G-ECZ9XLT78C"></script><script>
+<!-- Generated by pkgdown: do not edit by hand --><html lang="es"><head><meta charset="UTF-8"><meta http-equiv="X-UA-Compatible" content="IE=edge"><meta name="viewport" content="width=device-width, initial-scale=1, shrink-to-fit=no"><title>Índice del paquete • bcchr</title><script src="../deps/jquery-3.6.0/jquery-3.6.0.min.js"></script><meta name="viewport" content="width=device-width, initial-scale=1, shrink-to-fit=no"><link href="../deps/bootstrap-5.3.8/bootstrap.min.css" rel="stylesheet"><script src="../deps/bootstrap-5.3.8/bootstrap.bundle.min.js"></script><link href="../deps/IBM_Plex_Sans-0.4.10/font.css" rel="stylesheet"><link href="../deps/Fira_Mono-0.4.10/font.css" rel="stylesheet"><link href="../deps/font-awesome-6.5.2/css/all.min.css" rel="stylesheet"><link href="../deps/font-awesome-6.5.2/css/v4-shims.min.css" rel="stylesheet"><script src="../deps/headroom-0.11.0/headroom.min.js"></script><script src="../deps/headroom-0.11.0/jQuery.headroom.min.js"></script><script src="../deps/bootstrap-toc-1.0.1/bootstrap-toc.min.js"></script><script src="../deps/clipboard.js-2.0.11/clipboard.min.js"></script><script src="../deps/search-1.0.0/autocomplete.jquery.min.js"></script><script src="../deps/search-1.0.0/fuse.min.js"></script><script src="../deps/search-1.0.0/mark.min.js"></script><!-- pkgdown --><script src="../pkgdown.js"></script><meta property="og:title" content="Índice del paquete"><!-- Google tag (gtag.js) --><script async src="https://www.googletagmanager.com/gtag/js?id=G-ECZ9XLT78C"></script><script>
   window.dataLayer = window.dataLayer || [];
   function gtag(){dataLayer.push(arguments);}
   gtag('js', new Date());

diff --git a/articles/index.html b/articles/index.html
@@ -1,5 +1,5 @@
 <!DOCTYPE html>
-<!-- Generated by pkgdown: do not edit by hand --><html lang="es"><head><meta http-equiv="Content-Type" content="text/html; charset=UTF-8"><meta charset="utf-8"><meta http-equiv="X-UA-Compatible" content="IE=edge"><meta name="viewport" content="width=device-width, initial-scale=1, shrink-to-fit=no"><title>Artículos • bcchr</title><script src="../deps/jquery-3.6.0/jquery-3.6.0.min.js"></script><meta name="viewport" content="width=device-width, initial-scale=1, shrink-to-fit=no"><link href="../deps/bootstrap-5.3.8/bootstrap.min.css" rel="stylesheet"><script src="../deps/bootstrap-5.3.8/bootstrap.bundle.min.js"></script><link href="../deps/IBM_Plex_Sans-0.4.10/font.css" rel="stylesheet"><link href="../deps/Fira_Mono-0.4.10/font.css" rel="stylesheet"><link href="../deps/font-awesome-6.5.2/css/all.min.css" rel="stylesheet"><link href="../deps/font-awesome-6.5.2/css/v4-shims.min.css" rel="stylesheet"><script src="../deps/headroom-0.11.0/headroom.min.js"></script><script src="../deps/headroom-0.11.0/jQuery.headroom.min.js"></script><script src="../deps/bootstrap-toc-1.0.1/bootstrap-toc.min.js"></script><script src="../deps/clipboard.js-2.0.11/clipboard.min.js"></script><script src="../deps/search-1.0.0/autocomplete.jquery.min.js"></script><script src="../deps/search-1.0.0/fuse.min.js"></script><script src="../deps/search-1.0.0/mark.min.js"></script><!-- pkgdown --><script src="../pkgdown.js"></script><meta property="og:title" content="Artículos"><!-- Google tag (gtag.js) --><script async src="https://www.googletagmanager.com/gtag/js?id=G-ECZ9XLT78C"></script><script>
+<!-- Generated by pkgdown: do not edit by hand --><html lang="es"><head><meta charset="UTF-8"><meta http-equiv="X-UA-Compatible" content="IE=edge"><meta name="viewport" content="width=device-width, initial-scale=1, shrink-to-fit=no"><title>Artículos • bcchr</title><script src="../deps/jquery-3.6.0/jquery-3.6.0.min.js"></script><meta name="viewport" content="width=device-width, initial-scale=1, shrink-to-fit=no"><link href="../deps/bootstrap-5.3.8/bootstrap.min.css" rel="stylesheet"><script src="../deps/bootstrap-5.3.8/bootstrap.bundle.min.js"></script><link href="../deps/IBM_Plex_Sans-0.4.10/font.css" rel="stylesheet"><link href="../deps/Fira_Mono-0.4.10/font.css" rel="stylesheet"><link href="../deps/font-awesome-6.5.2/css/all.min.css" rel="stylesheet"><link href="../deps/font-awesome-6.5.2/css/v4-shims.min.css" rel="stylesheet"><script src="../deps/headroom-0.11.0/headroom.min.js"></script><script src="../deps/headroom-0.11.0/jQuery.headroom.min.js"></script><script src="../deps/bootstrap-toc-1.0.1/bootstrap-toc.min.js"></script><script src="../deps/clipboard.js-2.0.11/clipboard.min.js"></script><script src="../deps/search-1.0.0/autocomplete.jquery.min.js"></script><script src="../deps/search-1.0.0/fuse.min.js"></script><script src="../deps/search-1.0.0/mark.min.js"></script><!-- pkgdown --><script src="../pkgdown.js"></script><meta property="og:title" content="Artículos"><!-- Google tag (gtag.js) --><script async src="https://www.googletagmanager.com/gtag/js?id=G-ECZ9XLT78C"></script><script>
   window.dataLayer = window.dataLayer || [];
   function gtag(){dataLayer.push(arguments);}
   gtag('js', new Date());

diff --git a/authors.html b/authors.html
@@ -1,5 +1,5 @@
 <!DOCTYPE html>
-<!-- Generated by pkgdown: do not edit by hand --><html lang="es"><head><meta http-equiv="Content-Type" content="text/html; charset=UTF-8"><meta charset="utf-8"><meta http-equiv="X-UA-Compatible" content="IE=edge"><meta name="viewport" content="width=device-width, initial-scale=1, shrink-to-fit=no"><title>Autores y Citas • bcchr</title><script src="deps/jquery-3.6.0/jquery-3.6.0.min.js"></script><meta name="viewport" content="width=device-width, initial-scale=1, shrink-to-fit=no"><link href="deps/bootstrap-5.3.8/bootstrap.min.css" rel="stylesheet"><script src="deps/bootstrap-5.3.8/bootstrap.bundle.min.js"></script><link href="deps/IBM_Plex_Sans-0.4.10/font.css" rel="stylesheet"><link href="deps/Fira_Mono-0.4.10/font.css" rel="stylesheet"><link href="deps/font-awesome-6.5.2/css/all.min.css" rel="stylesheet"><link href="deps/font-awesome-6.5.2/css/v4-shims.min.css" rel="stylesheet"><script src="deps/headroom-0.11.0/headroom.min.js"></script><script src="deps/headroom-0.11.0/jQuery.headroom.min.js"></script><script src="deps/bootstrap-toc-1.0.1/bootstrap-toc.min.js"></script><script src="deps/clipboard.js-2.0.11/clipboard.min.js"></script><script src="deps/search-1.0.0/autocomplete.jquery.min.js"></script><script src="deps/search-1.0.0/fuse.min.js"></script><script src="deps/search-1.0.0/mark.min.js"></script><!-- pkgdown --><script src="pkgdown.js"></script><meta property="og:title" content="Autores y Citas"><!-- Google tag (gtag.js) --><script async src="https://www.googletagmanager.com/gtag/js?id=G-ECZ9XLT78C"></script><script>
+<!-- Generated by pkgdown: do not edit by hand --><html lang="es"><head><meta charset="UTF-8"><meta http-equiv="X-UA-Compatible" content="IE=edge"><meta name="viewport" content="width=device-width, initial-scale=1, shrink-to-fit=no"><title>Autores y Citas • bcchr</title><script src="deps/jquery-3.6.0/jquery-3.6.0.min.js"></script><meta name="viewport" content="width=device-width, initial-scale=1, shrink-to-fit=no"><link href="deps/bootstrap-5.3.8/bootstrap.min.css" rel="stylesheet"><script src="deps/bootstrap-5.3.8/bootstrap.bundle.min.js"></script><link href="deps/IBM_Plex_Sans-0.4.10/font.css" rel="stylesheet"><link href="deps/Fira_Mono-0.4.10/font.css" rel="stylesheet"><link href="deps/font-awesome-6.5.2/css/all.min.css" rel="stylesheet"><link href="deps/font-awesome-6.5.2/css/v4-shims.min.css" rel="stylesheet"><script src="deps/headroom-0.11.0/headroom.min.js"></script><script src="deps/headroom-0.11.0/jQuery.headroom.min.js"></script><script src="deps/bootstrap-toc-1.0.1/bootstrap-toc.min.js"></script><script src="deps/clipboard.js-2.0.11/clipboard.min.js"></script><script src="deps/search-1.0.0/autocomplete.jquery.min.js"></script><script src="deps/search-1.0.0/fuse.min.js"></script><script src="deps/search-1.0.0/mark.min.js"></script><!-- pkgdown --><script src="pkgdown.js"></script><meta property="og:title" content="Autores y Citas"><!-- Google tag (gtag.js) --><script async src="https://www.googletagmanager.com/gtag/js?id=G-ECZ9XLT78C"></script><script>
   window.dataLayer = window.dataLayer || [];
   function gtag(){dataLayer.push(arguments);}
   gtag('js', new Date());
